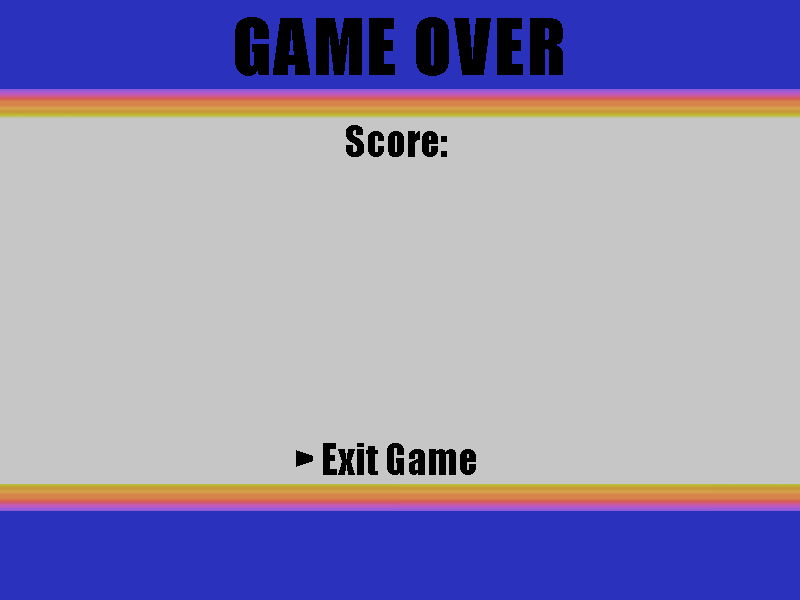
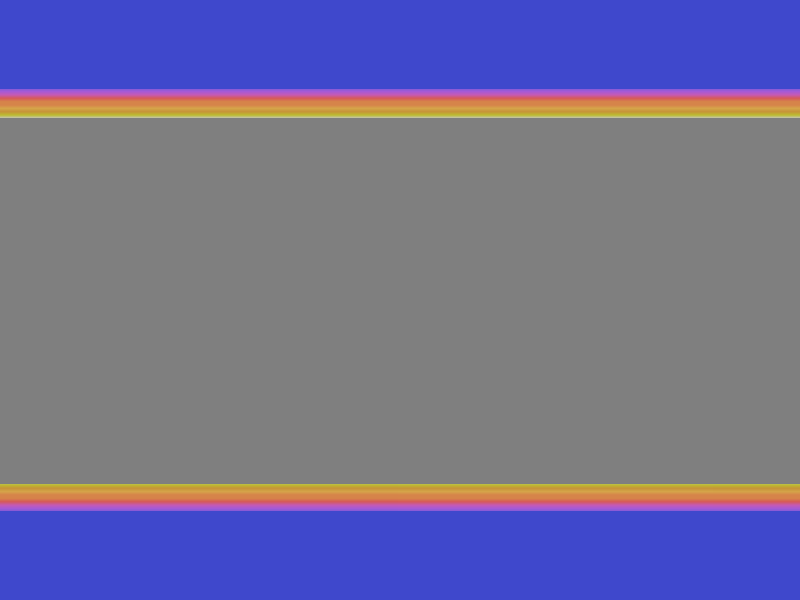
Updated game over fonts and displays

diff --git a/game-source-code/Source-files/Draw.cpp b/game-source-code/Source-files/Draw.cpp
@@ -38,6 +38,8 @@ void Engine::display_manager(float dt)
 			if (player_state == PlayerState::Dead)
 			{
 				window->draw(game_over_sprite);
+				window->draw(gameOverTxt);
+				window->draw(exitTxt);
 				window->display();
 				return;
 			}
@@ -93,7 +95,12 @@ void Engine::display_manager(float dt)
 					}
 				}
 
-				if (player_stateP1 == PlayerState::Dead) { window->draw(game_over_sprite); }
+				if (player_stateP1 == PlayerState::Dead)
+				{
+					window->draw(game_over_sprite);
+					window->draw(gameOverTxt);
+					window->draw(exitTxt);
+				}
 				window->draw(line_sprite);
 			}
 
@@ -147,7 +154,11 @@ void Engine::display_manager(float dt)
 						window->draw(victory_sprite);
 					}
 				}
-				if (player_stateP2 == PlayerState::Dead) { window->draw(game_over_sprite); }
+				if (player_stateP2 == PlayerState::Dead)
+				{
+					window->draw(game_over_sprite);
+					window->draw(gameOverTxt);
+				}
 			}
 
 			else

diff --git a/game-source-code/Source-files/Engine.cpp b/game-source-code/Source-files/Engine.cpp
@@ -54,6 +54,19 @@ Engine::Engine():
 
 	mLivesHUDPos.x = 553.0f;
 	mLivesHUDPos.y = 21.0f;
+
+	//Game end text
+	gameEndFont.loadFromFile("resources/SnowtopCaps.otf");
+	gameOverTxt.setFont(gameEndFont);
+	gameOverTxt.setCharacterSize(60);
+	exitTxt.setFont(gameEndFont);
+	exitTxt.setFillColor(Color::Black);
+	exitTxt.setPosition(250.5f, 412.0f);
+	exitTxt.setString("Menu(Esc)");
+	exitTxt.setCharacterSize(60);
+	gameOverTxt.setFillColor(Color::Black);
+	gameOverTxt.setPosition(253.0f, 10.0f);
+	gameOverTxt.setString("GAME OVER");
 }
 
 void Engine::run()

diff --git a/game-source-code/Header-files/Engine.h b/game-source-code/Header-files/Engine.h
@@ -96,6 +96,10 @@ private:
 	Texture line_texture;
 	Sprite line_sprite;
 
+	Text gameOverTxt;
+	Text exitTxt;
+	Font gameEndFont;
+
 	Texture instructions_texture;
 	Sprite instructions_sprite;
 	vector2f backPos;
